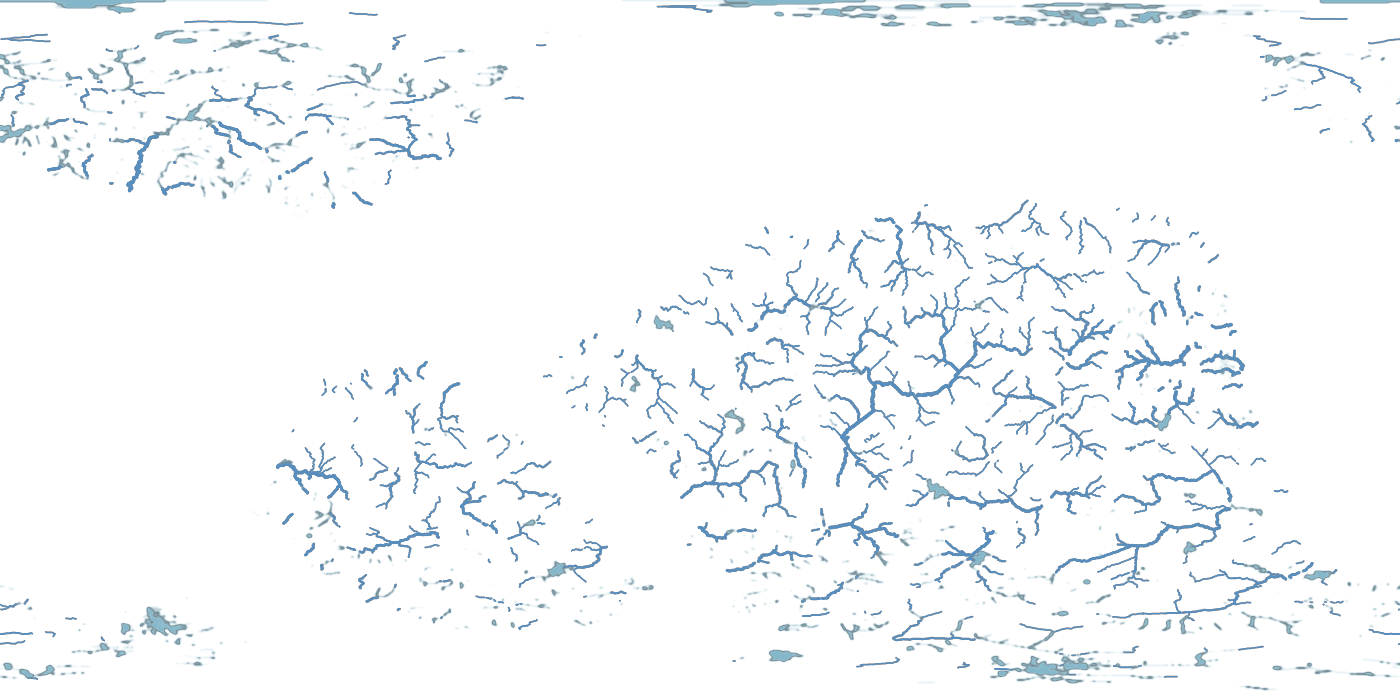
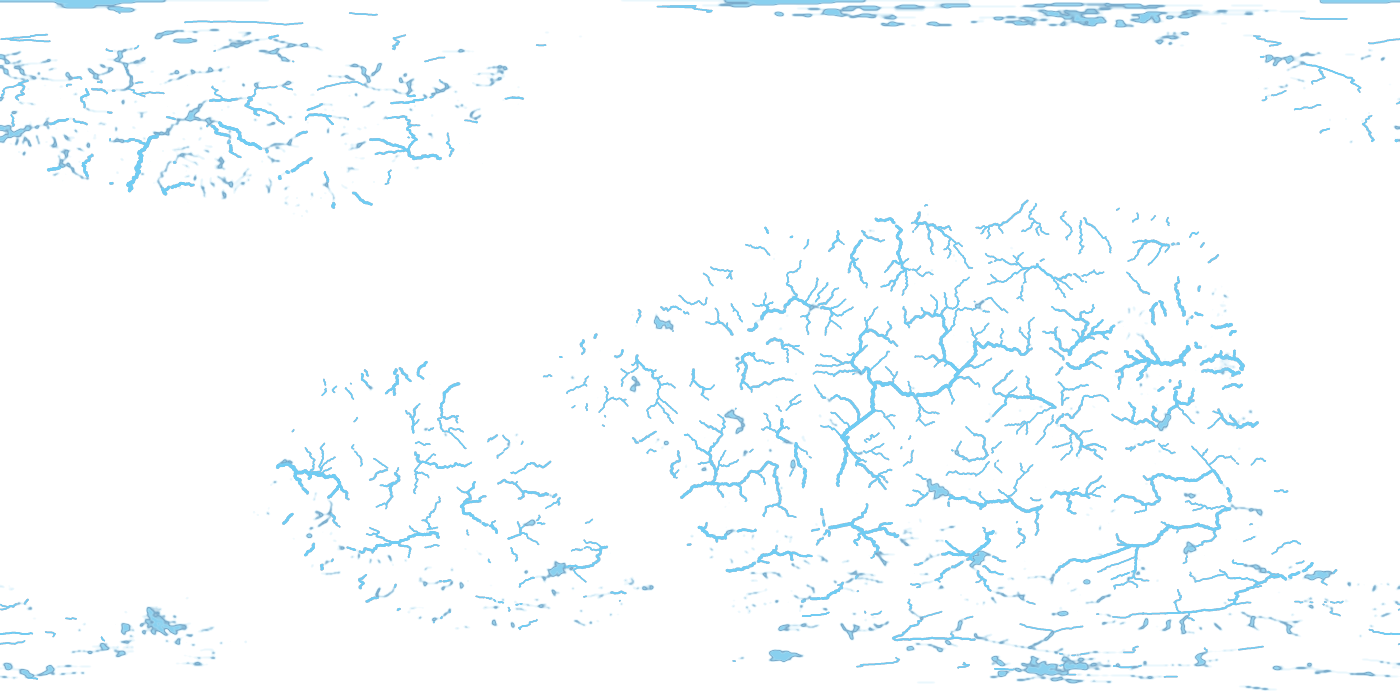
川と湖の色を水色に
Claude-Session: https://claude.ai/code/session_01NNF75WtqSrNc5QxPaYtfZJ

diff --git a/docs/apps/fantasy-war/mapstyle/tools/water_layer.py b/docs/apps/fantasy-war/mapstyle/tools/water_layer.py
@@ -49,10 +49,10 @@ def make(g, lake, land0, H, out, shift, seed=1, min_order=int(__import__('os').e
     ink, fill = river_masks(g, W0, H0, shift, H, min_order, wet=(~land0) | lake)
     ink *= (1 - lki); fill *= (1 - lki)
     rgb = np.zeros((H0, W0, 3), np.float32); a = np.zeros((H0, W0), np.float32)
-    rgb, a = over(rgb, a, (120, 176, 196), 0.92 * lki)
-    rgb, a = over(rgb, a, (70, 90, 100), 0.6 * ring * (lkz > 0.05))
-    rgb, a = over(rgb, a, (52, 66, 84), 0.55 * ink)                     # 墨色のふち
-    rgb, a = over(rgb, a, (84, 142, 190), 0.95 * fill)                  # 青の川筋
+    rgb, a = over(rgb, a, (126, 204, 238), 0.92 * lki)
+    rgb, a = over(rgb, a, (72, 128, 170), 0.6 * ring * (lkz > 0.05))
+    rgb, a = over(rgb, a, (70, 130, 175), 0.5 * ink)                     # 墨色のふち
+    rgb, a = over(rgb, a, (110, 205, 245), 0.97 * fill)                  # 青の川筋
     O = np.dstack([rgb[..., ::-1], a * 255]).astype(np.uint8)       # BGRA
     cv2.imwrite(out, O)
     return {'川の線の画素': int((fill > 0.3).sum()), '湖の画素': int((lki > 0.5).sum()), '最小の順位': min_order}

diff --git a/docs/apps/sekai-hex/design/STATE.md b/docs/apps/sekai-hex/design/STATE.md
@@ -200,6 +200,7 @@
 - 【依頼 11-22 19:40 ユーザー】現在の異世界ファンタジー地図の評価を、ハブを基本として行なってほしい。→ 実施(私の評価・ユーザーの評価ではない。基準=カード6B/6A/6F/6G と 11-22 04:27 の最終版の定義): 総評=『地球の地図としては良い。異世界の地図としてはまだ』。①世界を作る基準(6B 陸4〜6割・大陸3つ・端は海): 球体PWG(seed31・32)は陸約52%・大陸3つで達成。極(上下端)の陸の帯は未解決。PWG5の5世界は陸が中央の正方形に収まり、上下端で切れる(3D表示で目視確認)=基準の見た目は未達。②絵の描き方(6A ローポリ+面ごとUV+森の層): PWG5は『良かった』(11-21 09:26 ユーザー評価)。球体は山が針のように尖り岩色が目立ち、森なし(目視)。③足す要素(6F・最終版): 森=PWG5のみ○、川=未、地脈=見せ方未定で消してある、方位・縮尺・地名・都市=未。最終版の3要素(森・川・地脈)のうち、いま出ているのは森だけ。④異世界らしさ(6G・⓪): 3D世界表示には魔力・魔力だまり(巣・大都会)・浮島・気流・禁域・龍種が一つも載っていない。それらは航宙図(別)にあり、世界地図との二面図(11-21 22:52 の約束)は上面図の重ね表示のみで、3D世界とは未統合。⓪(異世界の定義)は未決のため二段目は着手しない約束。限界: 目視はPC画面のみ・iPhone未測定・数値化した採点ではない・私の見立て。次の一手: 魔力だまり・地脈を、確定済みの表現(地表から淡く吹き出す雪片のような光の粒)で3D世界に出す試作。
 - 【指摘・指示 11-22 19:43・19:44 ユーザー】19:43『川作ったじゃん。おかしいんじゃないの?』(私が『川は未実装』と言い切ったことへ)。19:44『川、湖を先に作って』。→ 訂正: 川は11-20に2Dの地図の絵(mapstyle46)に作ってあった。足りなかったのは最終版の3D表示(world3d)に載せる絵への反映で、『未実装』は言い過ぎ。実施: 球体PWG(seed31・32。周長8192km・陸0.5・大陸3、前回と同じ世界であることを確認=標高が完全に一致)の流量と湖を、縦横2倍の細かさで取り直し(道具 mapstyle/tools/pwg_sphere_probe2.ts)、2x2の最大値にまとめて世界データの位置・左右の切れ目の回転に合わせた。川=流量の対数で太さ(陸の流量の上位約3%以上)、湖=青灰の面+細い墨の縁、山の上(高さ48超で薄れ60で消える)・湖の中には描かない(mapstyle46と同じ決め事)。透明な層(water_layer.py → mapstyle/pwgsphere/sp31・sp32/water-layer.png)にして、面ごとのUV加工の地形に貼った。湖は穴にせず、まわりの陸より少し低い湖面の面として残した。結果(実測): seed31=川の画素約2.4万・湖約1万、seed32=川約2.2万・湖約0.9万、陸の割合は湖の面を含め54%・48%。回して見る3D(world3d.html の『球体PWG 2:1』2世界)で、川が地形に沿って流れ、山あいから低地へつながり、湖が見えることを目視で確認(近づいた画面)、エラー無し。限界: PWG5の5世界(pm51〜55)には未反映=元の流量データが保存されておらず(カード6Bの『PWG元データ未保存』)、世界の作り直しが要る/川のしきい値(上位約3%)・太さ・色は mapstyle46 の値を引き継いだ私の初期値/川が海へ注ぐ河口の処理・滝・支流の太さの階層は未/湖が山の中で小さな穴のように見える所がある/球体世界に森は未搭載/PWGの川は地図の標高とは別の計算のため、一部で谷の底からずれる可能性(目視では大きなずれは見えない)/目視はPC画面のみ・iPhone未測定。次の一手: 球体の世界に森を足す(群系から)。
 - 【指示 11-22 21:16 ユーザー】『川がらしく無い。ファンタジー地図の川の書き方を勉強してから作って』。→ 調べた約束(ファンタジー地図・水系の描き方の解説より): ①源流は山の中腹から出す ②細い支流が集まって本流になり、下流ほど太い(木の形) ③合流は下流向きの浅い角度 ④途中で二股に分かれず(分かれるのは三角州だけ)、交差もしない ⑤必ず海か湖で終わる(途中で消えない) ⑥山では細く直線的、平地では蛇行 ⑦河口は扇状に広がる。前回の私の川は『流量の多い画素』を拾っただけで、細切れ・均一・つながらない絵だったのが原因。実施: PWG自身が持つ川の網(支流と本流の木・順位・流量・蛇行つきの線データ。mapstyle/tools/pwg_sphere_probe3.ts で書き出し)を使い直した。順位4以上の川だけを線で描き(順位3は多すぎ、5は途切れて少ない)、太さは流量の対数で下流ほど太く、海・湖に届かない川は描かない、雪山の上は消す(water_layer.py を全面改訂)。結果(実測): seed31=川の画素約3.0万・湖約1.0万、seed32=川約3.2万・湖約0.9万、前回(約2.4万)より線が長くつながった。目視: 平面でも3D近づき画面でも、支流が本流に合流して広がる木の形になり、前回より川らしい(エラー無し)。限界: PWGの蛇行は1400幅では1画素未満で、ほぼ直線に見える/河口の三角州の扇は未描画/太さは見やすさ優先で縮尺どおりでない/PWG5の5世界は元データ無しで未反映/森は未搭載/目視はPC画面のみ・iPhone未測定。調べた元は検索結果の一般解説で、特定の一冊の規則ではない。次の一手: 球体の世界に森を足す(群系から)。
+- 【評価・指示 11-22 21:25 ユーザー】『かたちはいいよ。色を水色にしてみて』。→ 評価: 21:16の川の形(PWGの川の網)は良い(確定)。実施: 川筋の青(84,142,190)→水色(110,205,245)、川のふち(墨色)→濃いめの水色(70,130,175)・薄く、湖の面も水色(126,204,238)に統一(water_layer.py の色の値だけ変更、形は同一)。結果(目視): 3D近づき画面で、緑・砂色の地面の上で川が明るい水色で見分けやすい。限界: 色は私の初期値(水色の濃さはユーザー未指定)/山の斜面では水色が地形の陰で少し沈む/目視はPC画面のみ・iPhone未測定。次の一手: 球体の世界に、群系から森を足す。
 
 ## カード15 制作プロトコル(超基礎概念)と、このプロジェクトの作業フロー【確定(ユーザー指示 11-21)+案】
 - 適用範囲: このプロジェクト(ファンタジー世界戦争=世界ハニカム、docs/apps/fantasy-war と sekai-hex)だけ。他のアプリには適用しない。

diff --git a/docs/apps/sekai-hex/design/cards/c06g.md b/docs/apps/sekai-hex/design/cards/c06g.md
@@ -95,3 +95,4 @@
 - 【依頼 11-22 19:40 ユーザー】現在の異世界ファンタジー地図の評価を、ハブを基本として行なってほしい。→ 実施(私の評価・ユーザーの評価ではない。基準=カード6B/6A/6F/6G と 11-22 04:27 の最終版の定義): 総評=『地球の地図としては良い。異世界の地図としてはまだ』。①世界を作る基準(6B 陸4〜6割・大陸3つ・端は海): 球体PWG(seed31・32)は陸約52%・大陸3つで達成。極(上下端)の陸の帯は未解決。PWG5の5世界は陸が中央の正方形に収まり、上下端で切れる(3D表示で目視確認)=基準の見た目は未達。②絵の描き方(6A ローポリ+面ごとUV+森の層): PWG5は『良かった』(11-21 09:26 ユーザー評価)。球体は山が針のように尖り岩色が目立ち、森なし(目視)。③足す要素(6F・最終版): 森=PWG5のみ○、川=未、地脈=見せ方未定で消してある、方位・縮尺・地名・都市=未。最終版の3要素(森・川・地脈)のうち、いま出ているのは森だけ。④異世界らしさ(6G・⓪): 3D世界表示には魔力・魔力だまり(巣・大都会)・浮島・気流・禁域・龍種が一つも載っていない。それらは航宙図(別)にあり、世界地図との二面図(11-21 22:52 の約束)は上面図の重ね表示のみで、3D世界とは未統合。⓪(異世界の定義)は未決のため二段目は着手しない約束。限界: 目視はPC画面のみ・iPhone未測定・数値化した採点ではない・私の見立て。次の一手: 魔力だまり・地脈を、確定済みの表現(地表から淡く吹き出す雪片のような光の粒)で3D世界に出す試作。
 - 【指摘・指示 11-22 19:43・19:44 ユーザー】19:43『川作ったじゃん。おかしいんじゃないの?』(私が『川は未実装』と言い切ったことへ)。19:44『川、湖を先に作って』。→ 訂正: 川は11-20に2Dの地図の絵(mapstyle46)に作ってあった。足りなかったのは最終版の3D表示(world3d)に載せる絵への反映で、『未実装』は言い過ぎ。実施: 球体PWG(seed31・32。周長8192km・陸0.5・大陸3、前回と同じ世界であることを確認=標高が完全に一致)の流量と湖を、縦横2倍の細かさで取り直し(道具 mapstyle/tools/pwg_sphere_probe2.ts)、2x2の最大値にまとめて世界データの位置・左右の切れ目の回転に合わせた。川=流量の対数で太さ(陸の流量の上位約3%以上)、湖=青灰の面+細い墨の縁、山の上(高さ48超で薄れ60で消える)・湖の中には描かない(mapstyle46と同じ決め事)。透明な層(water_layer.py → mapstyle/pwgsphere/sp31・sp32/water-layer.png)にして、面ごとのUV加工の地形に貼った。湖は穴にせず、まわりの陸より少し低い湖面の面として残した。結果(実測): seed31=川の画素約2.4万・湖約1万、seed32=川約2.2万・湖約0.9万、陸の割合は湖の面を含め54%・48%。回して見る3D(world3d.html の『球体PWG 2:1』2世界)で、川が地形に沿って流れ、山あいから低地へつながり、湖が見えることを目視で確認(近づいた画面)、エラー無し。限界: PWG5の5世界(pm51〜55)には未反映=元の流量データが保存されておらず(カード6Bの『PWG元データ未保存』)、世界の作り直しが要る/川のしきい値(上位約3%)・太さ・色は mapstyle46 の値を引き継いだ私の初期値/川が海へ注ぐ河口の処理・滝・支流の太さの階層は未/湖が山の中で小さな穴のように見える所がある/球体世界に森は未搭載/PWGの川は地図の標高とは別の計算のため、一部で谷の底からずれる可能性(目視では大きなずれは見えない)/目視はPC画面のみ・iPhone未測定。次の一手: 球体の世界に森を足す(群系から)。
 - 【指示 11-22 21:16 ユーザー】『川がらしく無い。ファンタジー地図の川の書き方を勉強してから作って』。→ 調べた約束(ファンタジー地図・水系の描き方の解説より): ①源流は山の中腹から出す ②細い支流が集まって本流になり、下流ほど太い(木の形) ③合流は下流向きの浅い角度 ④途中で二股に分かれず(分かれるのは三角州だけ)、交差もしない ⑤必ず海か湖で終わる(途中で消えない) ⑥山では細く直線的、平地では蛇行 ⑦河口は扇状に広がる。前回の私の川は『流量の多い画素』を拾っただけで、細切れ・均一・つながらない絵だったのが原因。実施: PWG自身が持つ川の網(支流と本流の木・順位・流量・蛇行つきの線データ。mapstyle/tools/pwg_sphere_probe3.ts で書き出し)を使い直した。順位4以上の川だけを線で描き(順位3は多すぎ、5は途切れて少ない)、太さは流量の対数で下流ほど太く、海・湖に届かない川は描かない、雪山の上は消す(water_layer.py を全面改訂)。結果(実測): seed31=川の画素約3.0万・湖約1.0万、seed32=川約3.2万・湖約0.9万、前回(約2.4万)より線が長くつながった。目視: 平面でも3D近づき画面でも、支流が本流に合流して広がる木の形になり、前回より川らしい(エラー無し)。限界: PWGの蛇行は1400幅では1画素未満で、ほぼ直線に見える/河口の三角州の扇は未描画/太さは見やすさ優先で縮尺どおりでない/PWG5の5世界は元データ無しで未反映/森は未搭載/目視はPC画面のみ・iPhone未測定。調べた元は検索結果の一般解説で、特定の一冊の規則ではない。次の一手: 球体の世界に森を足す(群系から)。
+- 【評価・指示 11-22 21:25 ユーザー】『かたちはいいよ。色を水色にしてみて』。→ 評価: 21:16の川の形(PWGの川の網)は良い(確定)。実施: 川筋の青(84,142,190)→水色(110,205,245)、川のふち(墨色)→濃いめの水色(70,130,175)・薄く、湖の面も水色(126,204,238)に統一(water_layer.py の色の値だけ変更、形は同一)。結果(目視): 3D近づき画面で、緑・砂色の地面の上で川が明るい水色で見分けやすい。限界: 色は私の初期値(水色の濃さはユーザー未指定)/山の斜面では水色が地形の陰で少し沈む/目視はPC画面のみ・iPhone未測定。次の一手: 球体の世界に、群系から森を足す。
